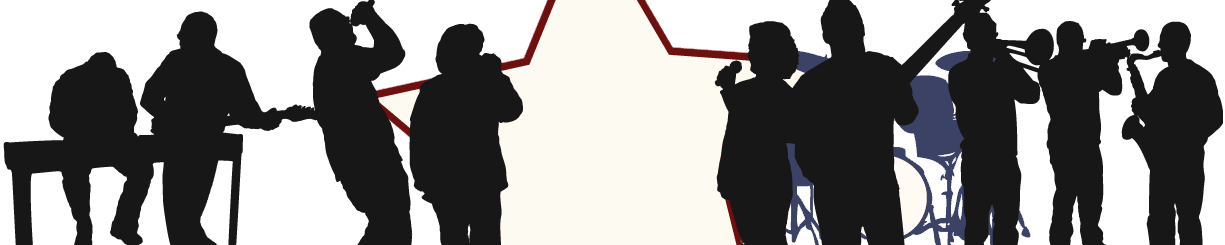
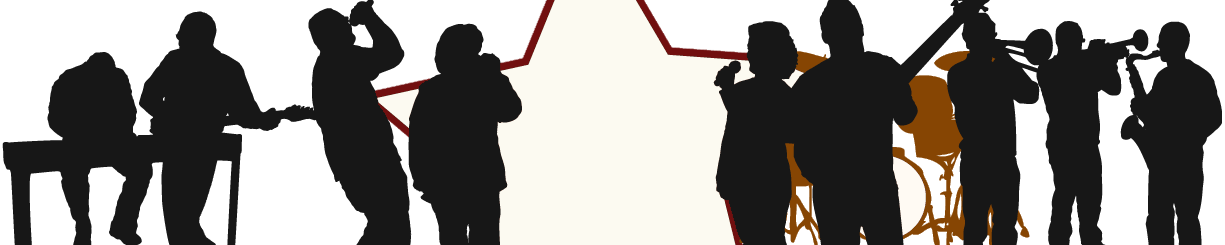
Drums -> orange, block borders -> red.

diff --git a/stylesheets/_colors.scss b/stylesheets/_colors.scss
@@ -15,7 +15,7 @@ $link-hover-fg: lighten($link-fg, 30%);
 $container-bg: #e1b738;
 $main-bg: $onb-almost-white;
 $nav-bg: $onb-blue-very-dark;
-$border-fg: #afafaf;
+$border-fg: $onb-red;
 
 $highlight-fg: #000;
 $highlight-bg: #dbf94a;
